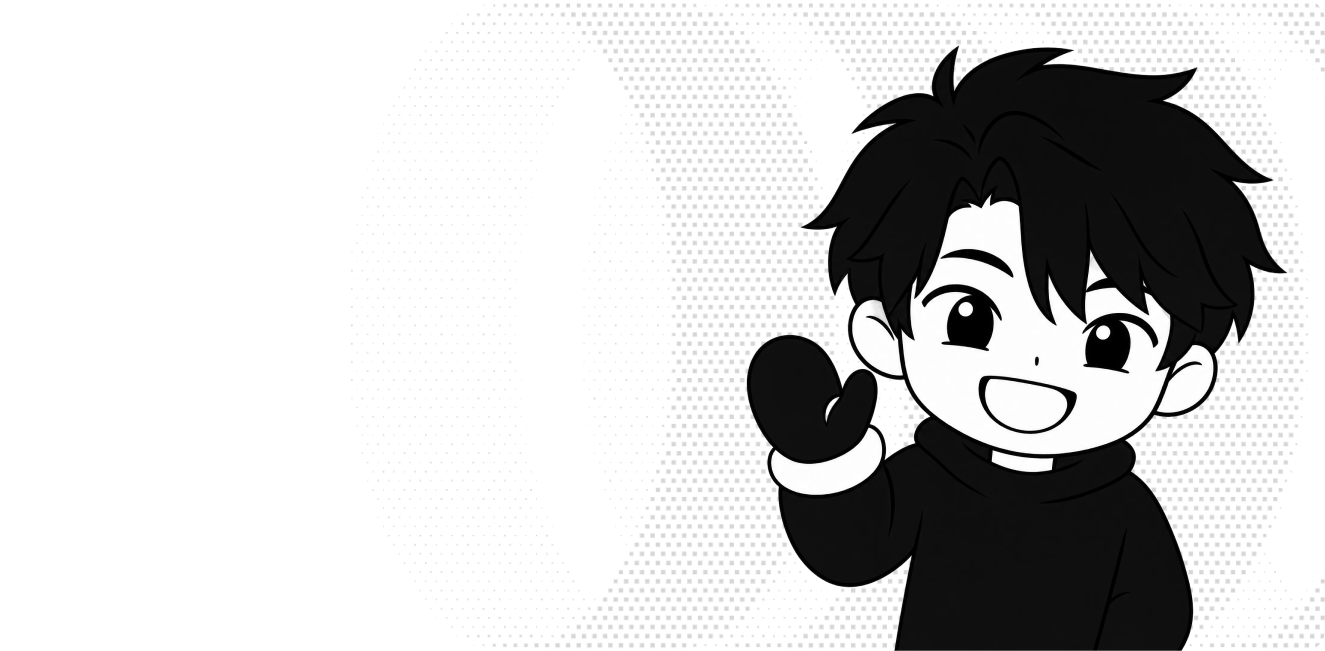
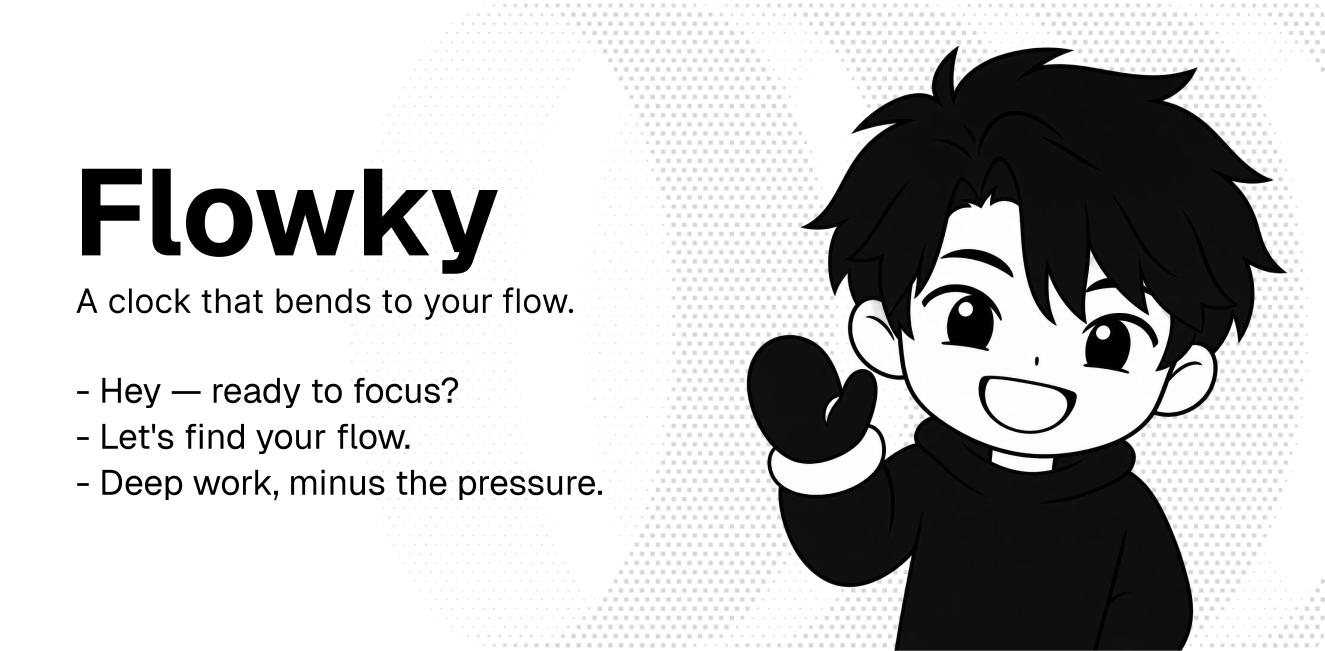
fix: readme

Changed region(s): [[0.0619, 0.2458, 0.4332, 0.4916], [0.0619, 0.5837, 0.4642, 0.768]]

diff --git a/README.md b/README.md
@@ -8,7 +8,7 @@ Flowky is a native macOS focus timer that adapts to how you actually work. Built
 
 ## Demo
 
-![Flowky demo](./demo/demo.gif)
+![Flowky demo](./demo/demo.mp4)
 
 ## Prerequisites
 